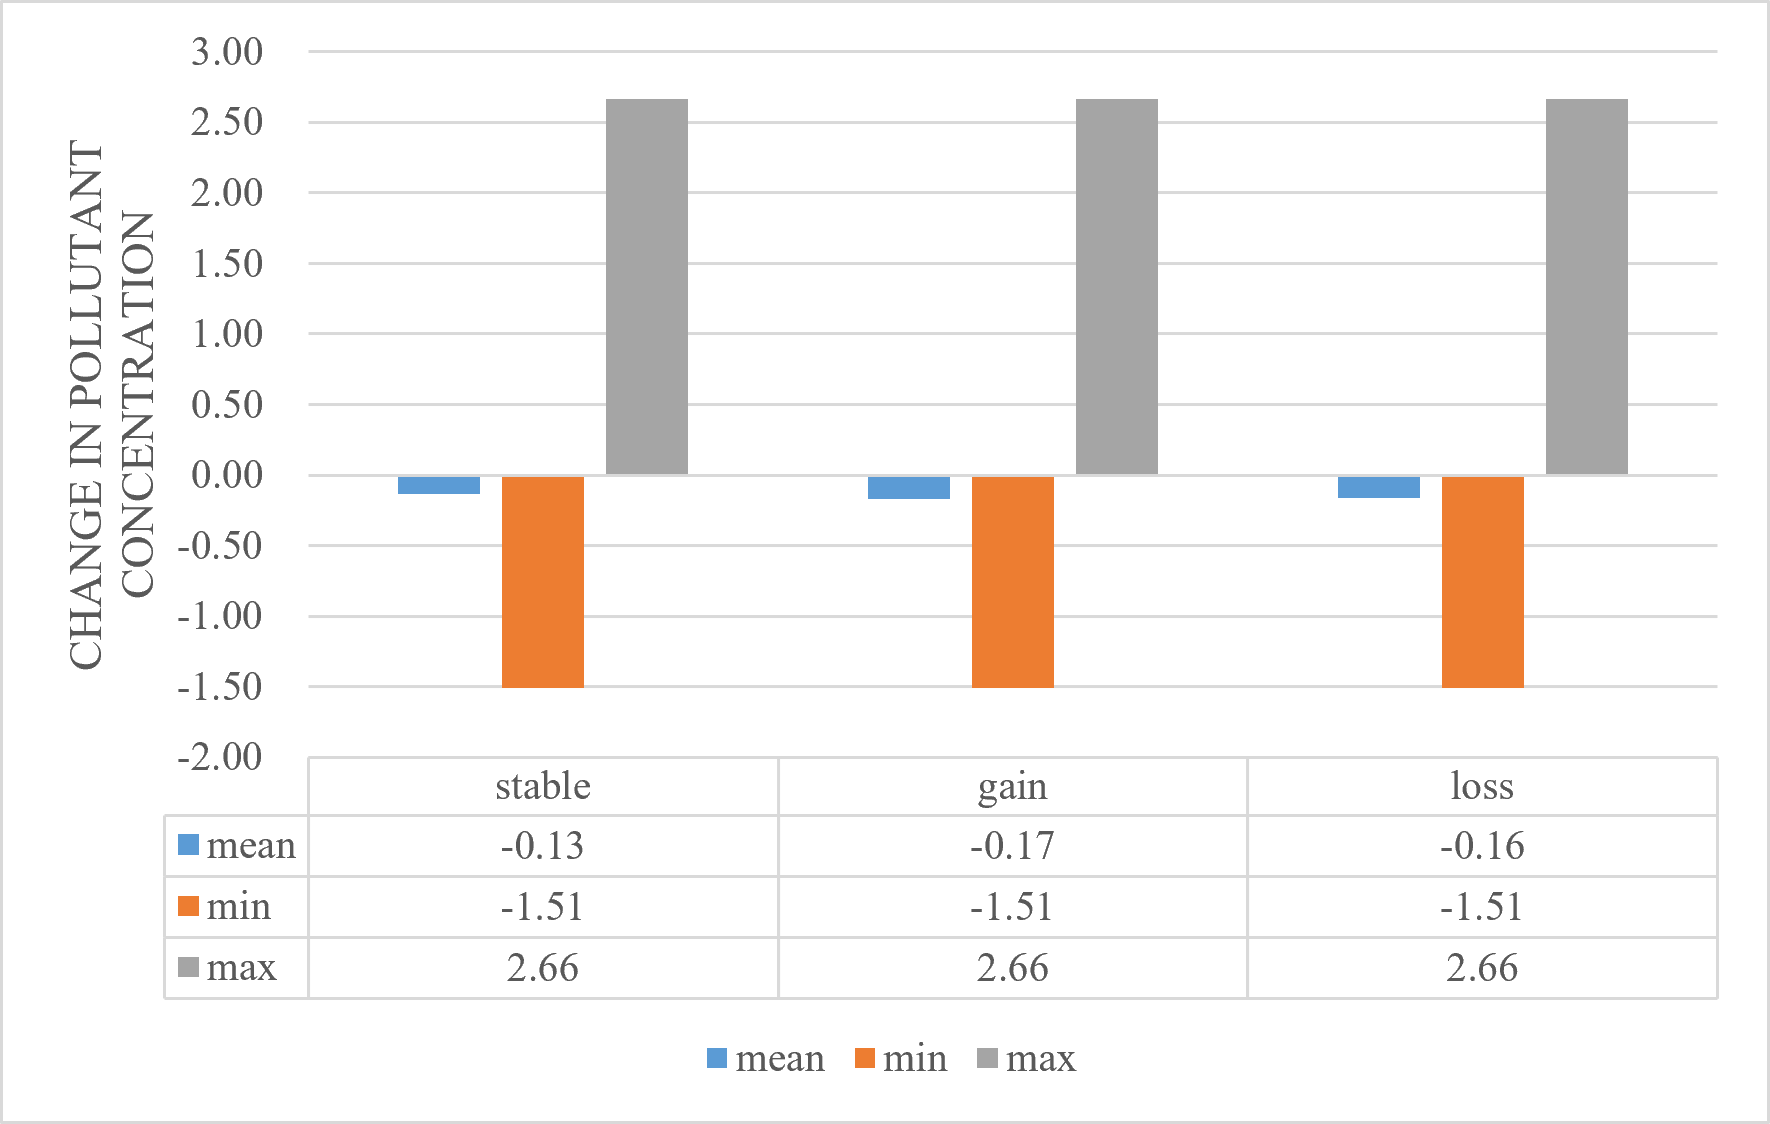
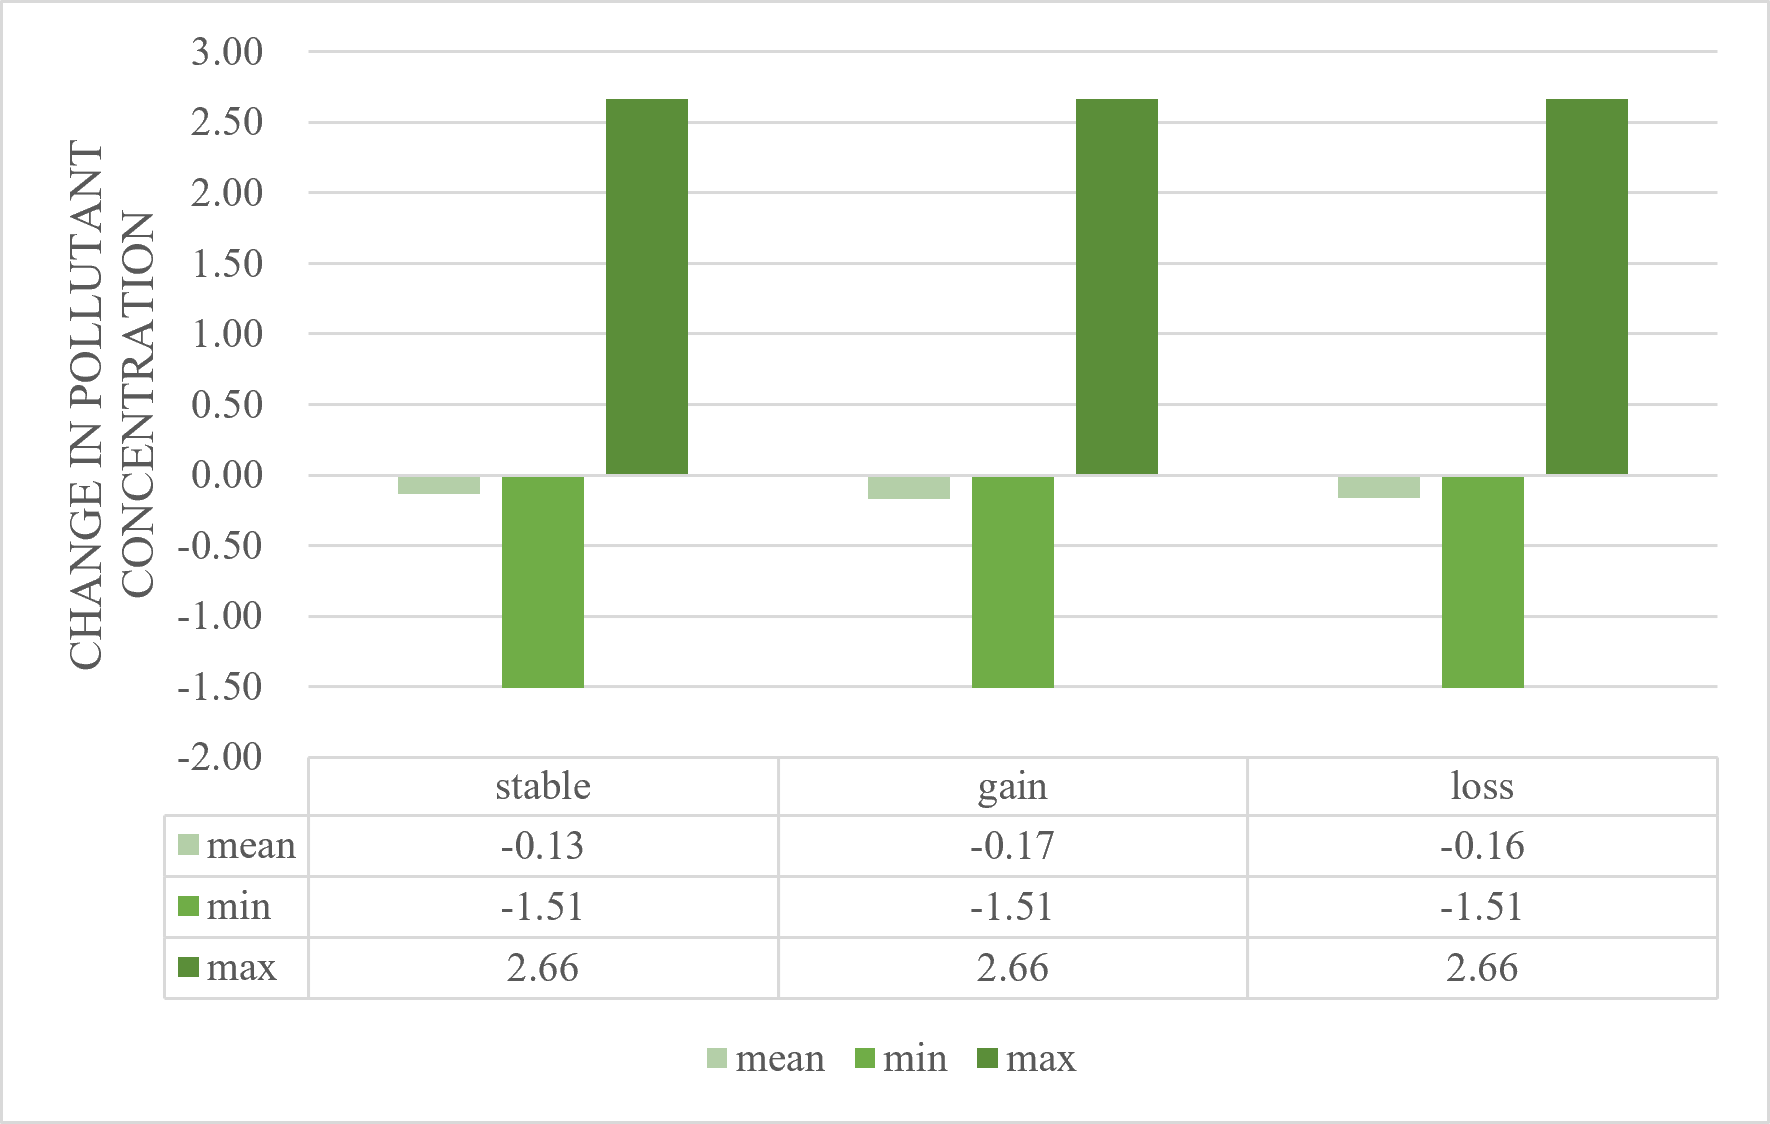
2021 annual avg layers + updated PNGs

diff --git a/js/map.js b/js/map.js
@@ -15,13 +15,16 @@ function wms(title, layer, visible, opacity){
 // All 10 layers
 const layers = {
   no2Amac:   wms('NO₂ AMAC', GS_LAYERS.no2Amac, true),
-  no2Avg:    wms('NO₂ Annual Avg', GS_LAYERS.no2Avg, false, 0.7),
+  no2Avg:    wms('NO₂ Annual Avg 2023', GS_LAYERS.no2Avg, false, 0.7),
+  no2Avg21:  wms('NO₂ Annual Avg 2021', GS_LAYERS.no2Avg21, false, 0.7),
   no2Conc:   wms('NO₂ Concentration', GS_LAYERS.no2Conc, false, 0.7),
   pm25Amac:  wms('PM₂.₅ AMAC', GS_LAYERS.pm25Amac, true),
-  pm25Avg:   wms('PM₂.₅ Annual Avg', GS_LAYERS.pm25Avg, false, 0.7),
+  pm25Avg:   wms('PM₂.₅ Annual Avg 2023', GS_LAYERS.pm25Avg, false, 0.7),
+  pm25Avg21: wms('PM₂.₅ Annual Avg 2021', GS_LAYERS.pm25Avg21, false, 0.7),
   pm25Conc:  wms('PM₂.₅ Concentration', GS_LAYERS.pm25Conc, false, 0.7),
   pm10Amac:  wms('PM₁₀ AMAC', GS_LAYERS.pm10Amac, false),
-  pm10Avg:   wms('PM₁₀ Annual Avg', GS_LAYERS.pm10Avg, false, 0.7),
+  pm10Avg:   wms('PM₁₀ Annual Avg 2023', GS_LAYERS.pm10Avg, false, 0.7),
+  pm10Avg21: wms('PM₁₀ Annual Avg 2021', GS_LAYERS.pm10Avg21, false, 0.7),
   pm10Conc:  wms('PM₁₀ Concentration', GS_LAYERS.pm10Conc, false, 0.7),
   boundary:  wms('Portugal Boundary', GS_LAYERS.boundary, true, 1),
 };
@@ -47,13 +50,16 @@ document.querySelectorAll('input[data-layer]').forEach(cb=>{cb.addEventListener(
 // Legend
 const legendLayers = [
   ['no2Amac','NO₂ AMAC',GS_LAYERS.no2Amac],
-  ['no2Avg','NO₂ Annual Avg',GS_LAYERS.no2Avg],
+  ['no2Avg','NO₂ Annual Avg 2023',GS_LAYERS.no2Avg],
+  ['no2Avg21','NO₂ Annual Avg 2021',GS_LAYERS.no2Avg21],
   ['no2Conc','NO₂ Concentration',GS_LAYERS.no2Conc],
   ['pm25Amac','PM₂.₅ AMAC',GS_LAYERS.pm25Amac],
-  ['pm25Avg','PM₂.₅ Annual Avg',GS_LAYERS.pm25Avg],
+  ['pm25Avg','PM₂.₅ Annual Avg 2023',GS_LAYERS.pm25Avg],
+  ['pm25Avg21','PM₂.₅ Annual Avg 2021',GS_LAYERS.pm25Avg21],
   ['pm25Conc','PM₂.₅ Concentration',GS_LAYERS.pm25Conc],
   ['pm10Amac','PM₁₀ AMAC',GS_LAYERS.pm10Amac],
-  ['pm10Avg','PM₁₀ Annual Avg',GS_LAYERS.pm10Avg],
+  ['pm10Avg','PM₁₀ Annual Avg 2023',GS_LAYERS.pm10Avg],
+  ['pm10Avg21','PM₁₀ Annual Avg 2021',GS_LAYERS.pm10Avg21],
   ['pm10Conc','PM₁₀ Concentration',GS_LAYERS.pm10Conc],
 ];
 

diff --git a/js/data.js b/js/data.js
@@ -7,12 +7,15 @@ const GEOSERVER = {
 const GS_LAYERS = {
   no2Amac:    'Portugal_no2_2021_2023_AMAC_map',
   no2Avg:     'Portugal_average_no2_2023',
+  no2Avg21:   'Portugal_average_no2_2021',
   no2Conc:    'Portugal_no2_concentration_map_2023',
   pm25Amac:   'Portugal_pm2p5_2021_2023_AMAC_map',
   pm25Avg:    'Portugal_average_pm2p5_2023',
+  pm25Avg21:  'Portugal_average_pm2p5_2021',
   pm25Conc:   'Portugal_pm2p5_concentration_map_2023',
   pm10Amac:   'Portugal_pm10_2021_2023_AMAC_map',
   pm10Avg:    'Portugal_average_pm10_2023',
+  pm10Avg21:  'Portugal_average_pm10_2021',
   pm10Conc:   'Portugal_pm10_concentration_map_2023',
   boundary:   'Portugal_bound'
 };

diff --git a/webgis.html b/webgis.html
@@ -16,16 +16,19 @@
     <h3>NO₂</h3>
     <label><input type="checkbox" data-layer="no2Amac" checked> AMAC Change 2021–2023</label>
     <label><input type="checkbox" data-layer="no2Avg"> Annual Average 2023</label>
+    <label><input type="checkbox" data-layer="no2Avg21"> Annual Average 2021</label>
     <label><input type="checkbox" data-layer="no2Conc"> Concentration Class (5 lv)</label>
 
     <h3>PM₂.₅</h3>
     <label><input type="checkbox" data-layer="pm25Amac" checked> AMAC Change 2021–2023</label>
     <label><input type="checkbox" data-layer="pm25Avg"> Annual Average 2023</label>
+    <label><input type="checkbox" data-layer="pm25Avg21"> Annual Average 2021</label>
     <label><input type="checkbox" data-layer="pm25Conc"> Concentration Class (5 lv)</label>
 
     <h3>PM₁₀</h3>
     <label><input type="checkbox" data-layer="pm10Amac"> AMAC Change 2021–2023</label>
     <label><input type="checkbox" data-layer="pm10Avg"> Annual Average 2023</label>
+    <label><input type="checkbox" data-layer="pm10Avg21"> Annual Average 2021</label>
     <label><input type="checkbox" data-layer="pm10Conc"> Concentration Class (5 lv)</label>
   </aside>
 